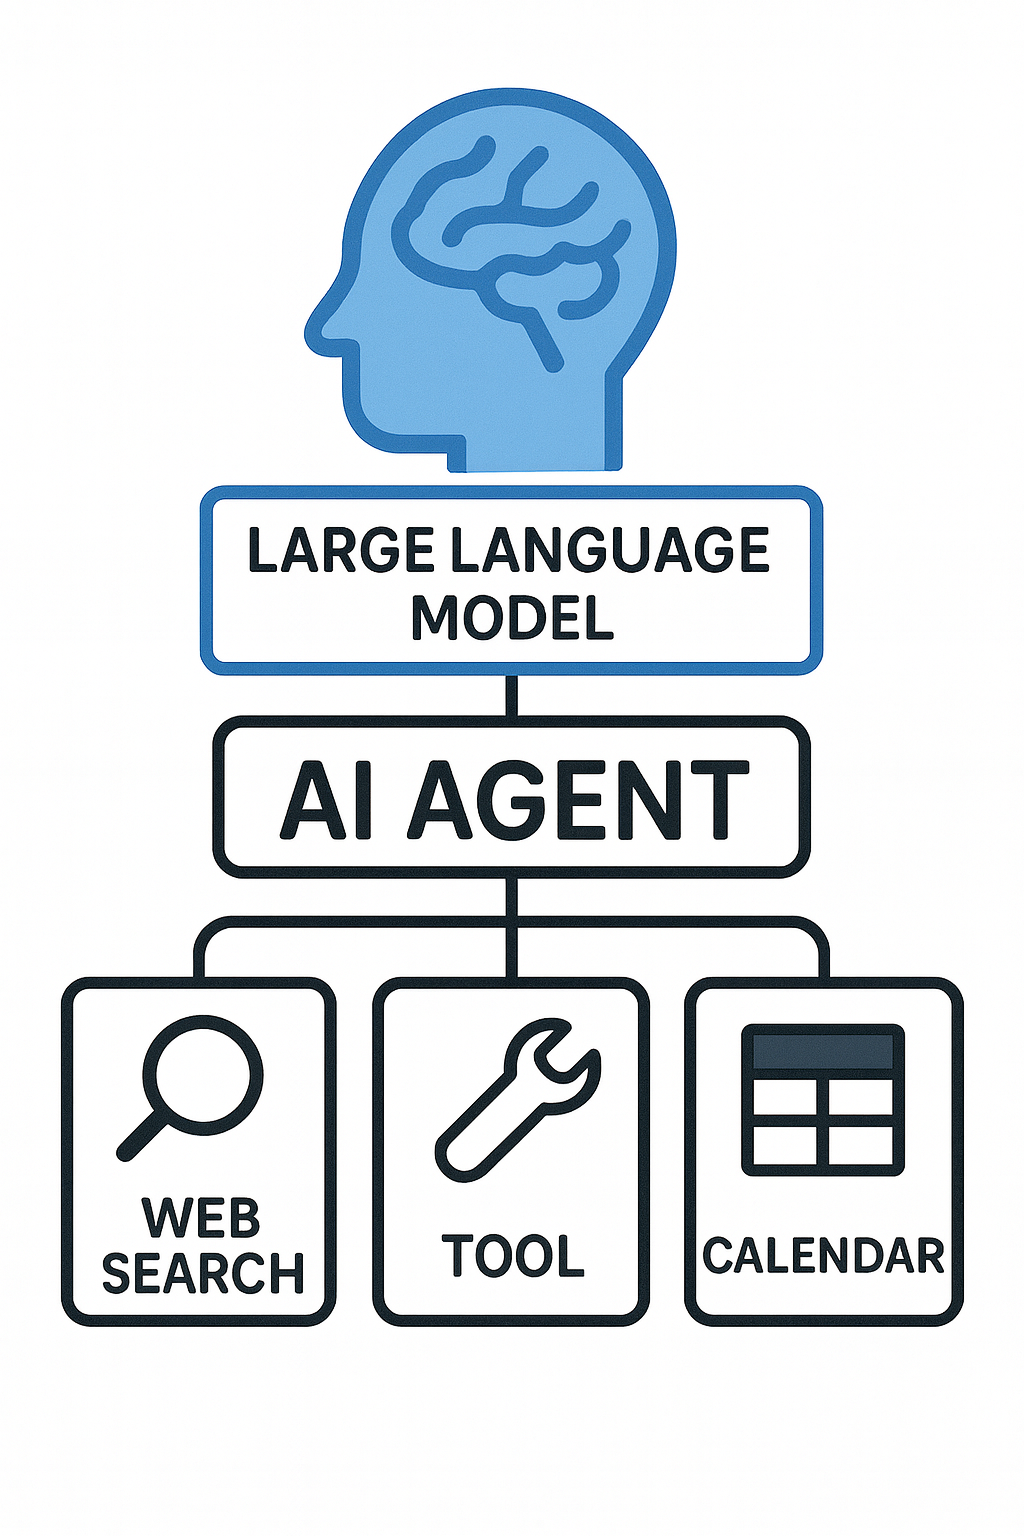
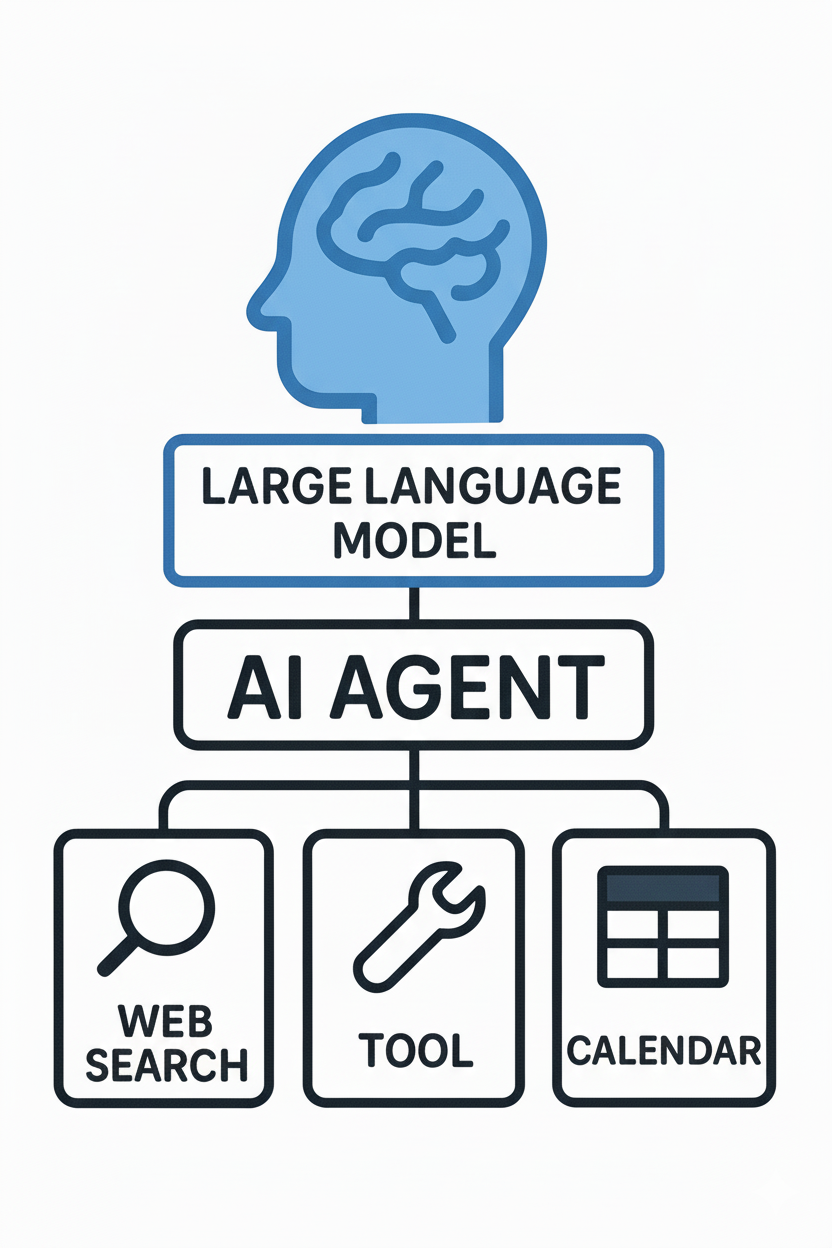
added images

Changed region(s): [[0.0312, 0.0312, 0.9688, 0.9062]]

diff --git a/agent.md b/agent.md
@@ -1,4 +1,5 @@
 AI Agent and Large Language Model (LLM)
+![agent_cover](images/Agents/agentcover.png)
 
 Large Large Model is an advanced AI model built on deep neural networks like transformers and has been trained on vast amount of text to generate human-like text. LLMs like ChatGPT, Claude, Gemini, Grok are capable of solving a lot of challenging problems and are used in different fields such as science, health, eduction, finance to tackle challenging problems. AI agent  is used to extend the functionalities of LLMs to solve tasks that are beyond their pre-trained knowledge.  An LLM can easily solve a task like write a tutorial on Python using its pretrained knowledge, but when you asked to do something like book a flight for me. This is beyond its pre-trained knowledge and it needs to be able to access your calendar and do web search to book a flight for you. This is where agent comes in it is used to connect an LLM to an external tool to perform actions. Some of the common actions include:
 
@@ -14,7 +15,7 @@ AI agent is a system that uses a Large Language Model to plan, reason and take s
 
 Basic Structure of an AI Agent
 
-![img1](images/Agent.png)
+![agent](images/Agents/agent.png)
 
 Large Language Model(LLM)
 
@@ -26,7 +27,7 @@ Tool is the framework that the agent uses to perform an action based on the step
 
 Illustrated Decision Making of a Booking AI Agent
 
-![img2](images/reserve.png)
+![booking](images/Agents/booking.png)
 
 AI agents can have access to different tools depending on the type of task. The tool can be a data store like a database such as a customer support agent that have access to customer’s account details, purchase history from which it can decide to extract information from whenever it want to assist a customer on a problem. 
 
@@ -42,14 +43,14 @@ Act: The agent performs an action(uses a tool) based on the reasoning of the Lar
 
 Observation: The LLM observes the result of the action taken.
 
-![img3](images/TAO.png)
+![tao](images/TAO.png)
 
 
 The Thought Act Observation is a cycle of the LLM thinking of what do deciding the action/tool to be used by agent, the agent using the tool and taking the necessary action, LLM observes the output of the action if it is success or failure, think again and the agent takes the next action. Thought Act Observation is a repeated cycle that keeps going till a problem is solved.  It is analogous to a human thinking process when we are given a problem, we first think about how to solve the problem, take action on our thoughts we observe and observe the results of the action if it solves the problem, making necessary adjustments based on the results of our actions.  The steps taken during Thought Act Observation cycle depends on the complexity of the work at hand, the more complex, the more the steps. For better understanding of the Thought Act Observation Cycle we shall use a customer support agent that is built to solve user’s billing issues. 
 
 Problem: A customer opened a ticket saying, ‘I was billed twice for my subscription.
 
-![img4](images/cycle.png)
+![cycle](images/cycle.png)
 
 There are 9 steps taken by the Billing agent to resolve the user’s billing issues. The breakdown of the details of the tabular diagram below;
 

diff --git a/functioncall.md b/functioncall.md
@@ -1,0 +1,2 @@
+# Function Calling
+![fc](images/Agents/functioncall.png)
